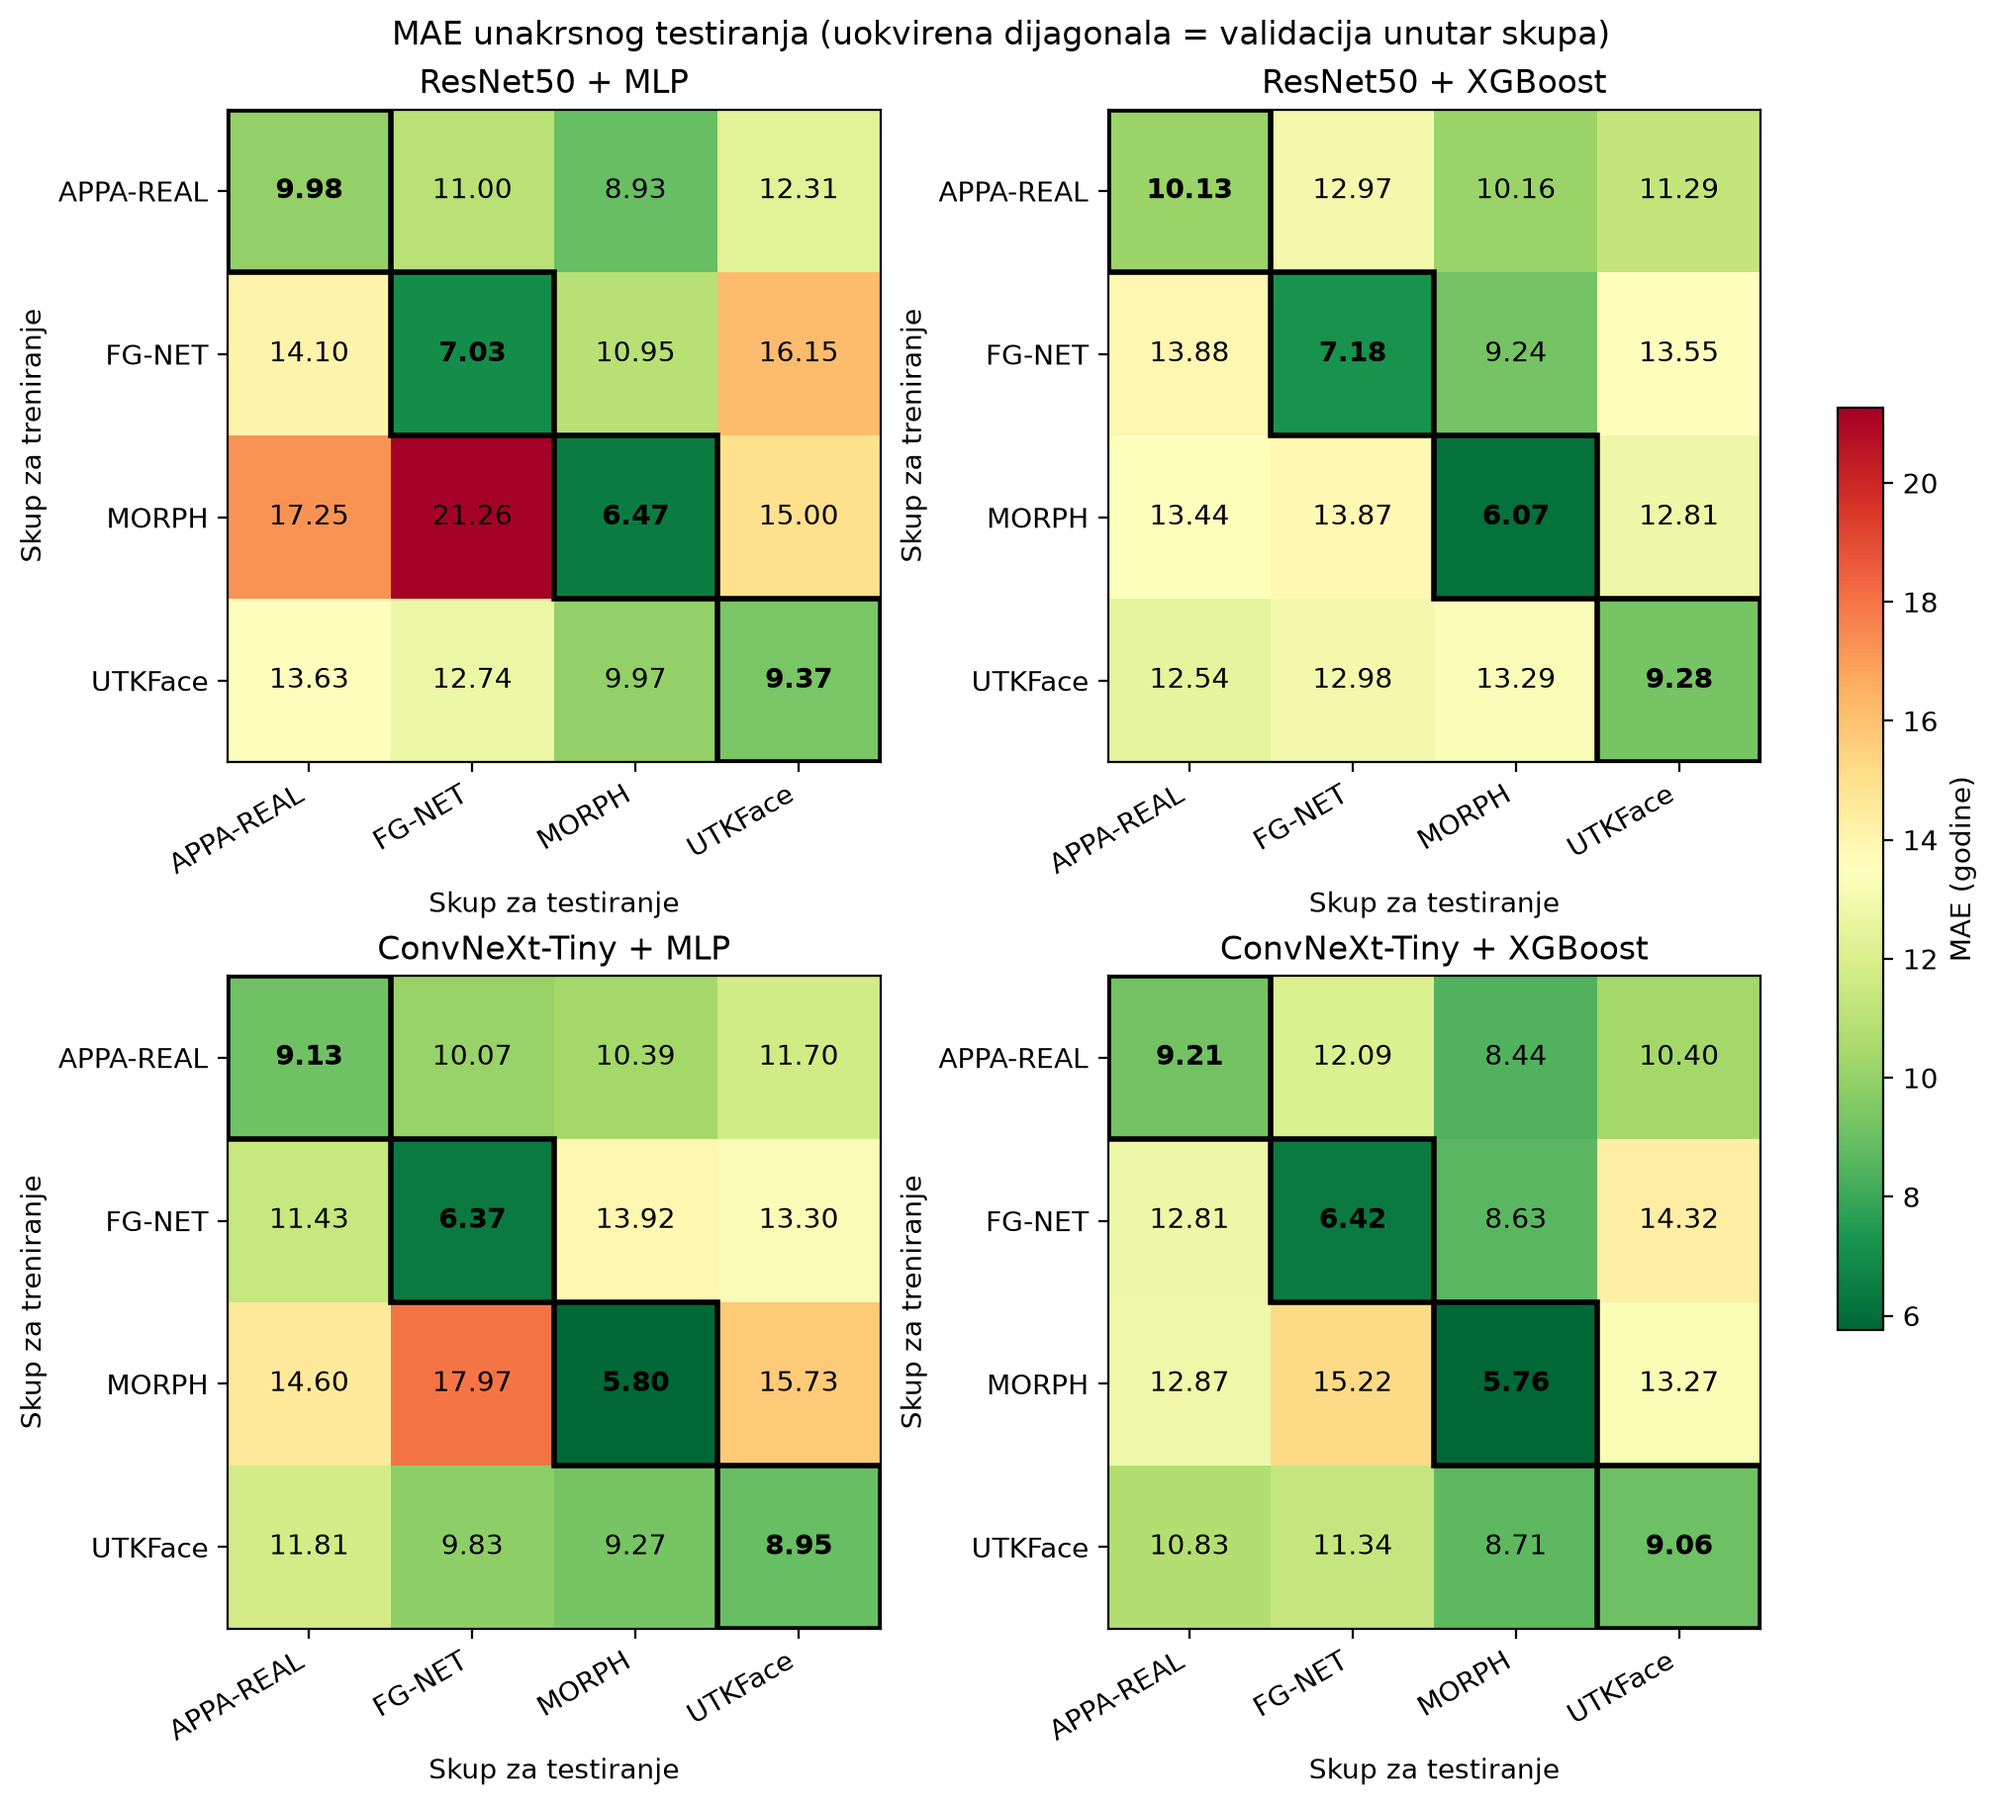
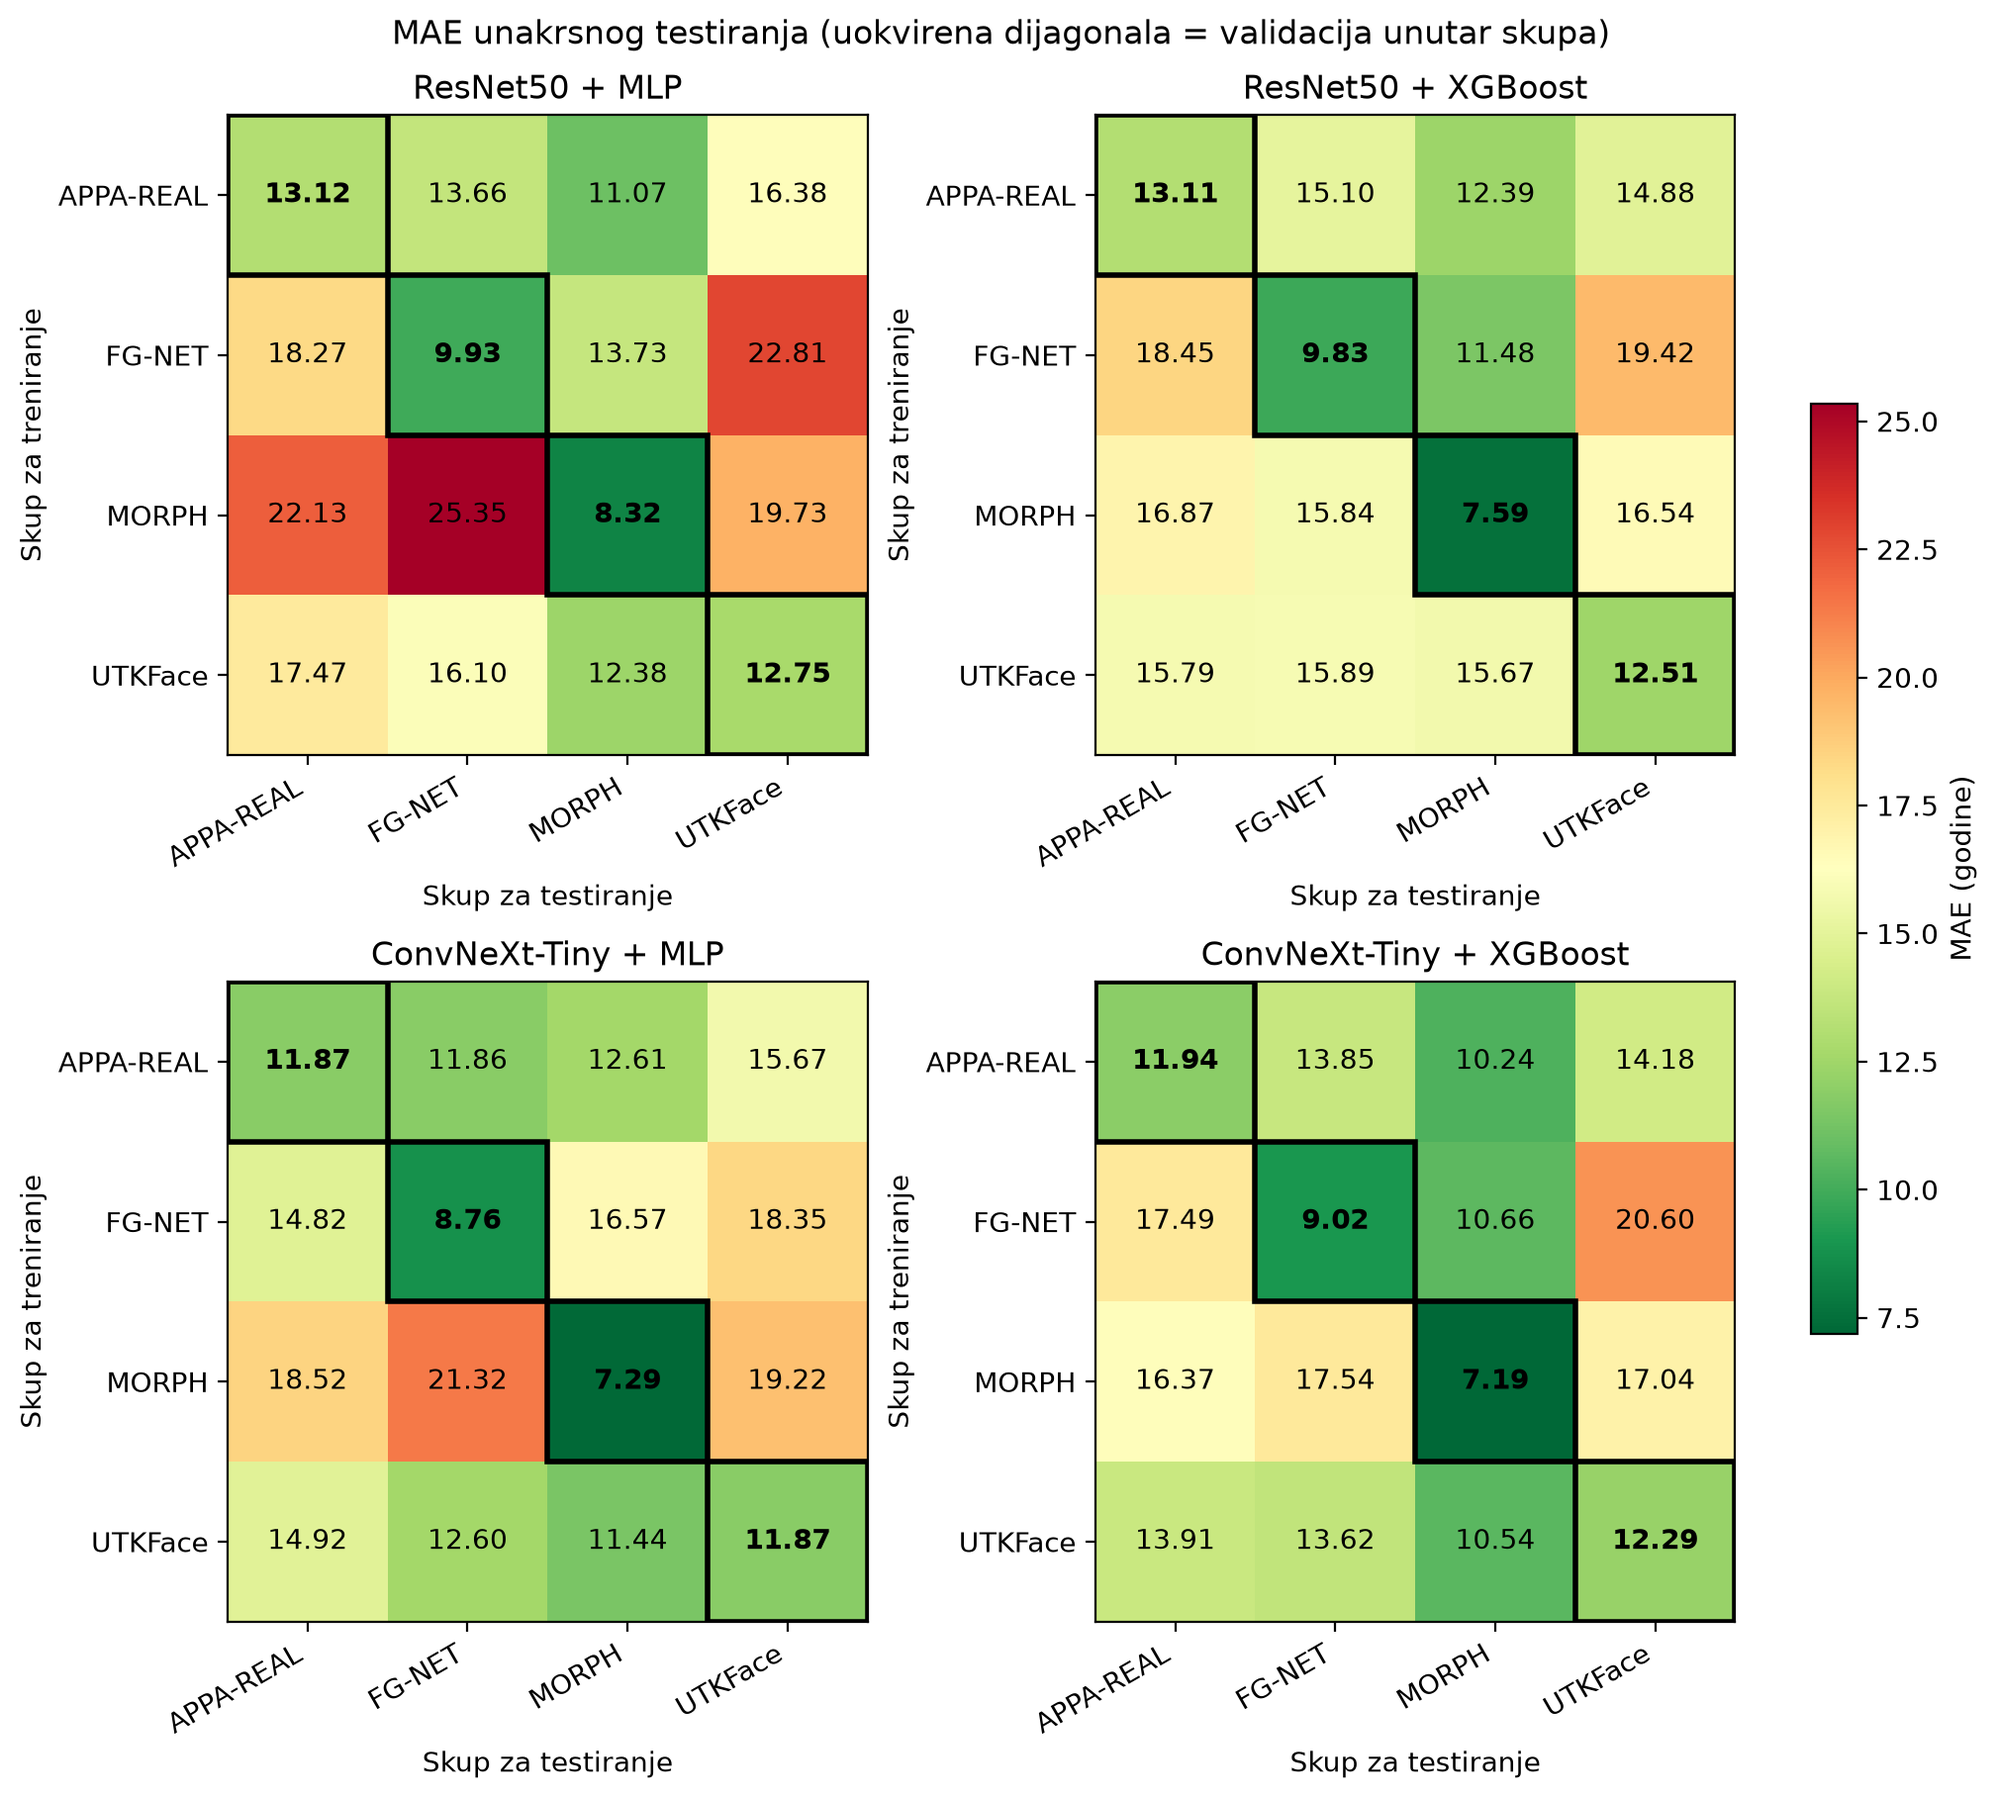
RMSE kao dodatna metrika u evaluaciji, treniranju i graficima

diff --git a/src/evaluate.py b/src/evaluate.py
@@ -6,11 +6,13 @@ import joblib
 import numpy as np
 import pandas as pd
 from sklearn.metrics import mean_absolute_error
+from sklearn.model_selection import GroupKFold, cross_validate
 
-from src.train import (CNNS, DATASETS, HPO_DIR, ML_MODELS, MODELS_DIR,
-                       RESULTS_DIR, load_features)
+from src.train import (CNNS, DATASETS, HPO_DIR, ML_MODELS, MODELS_DIR, RESULTS_DIR,
+                       build_model, load_features, subsample_by_person)
 
 CROSS_RESULTS_PATH = RESULTS_DIR / "cross_dataset.csv"
+HPO_MAX_SAMPLES = 5000  # isto kao podrazumevani --max-hpo-samples u train.py
 
 
 def cumulative_score(y_true, y_pred, threshold: int = 5) -> float:
@@ -18,26 +20,56 @@ def cumulative_score(y_true, y_pred, threshold: int = 5) -> float:
     return float(np.mean(np.abs(y_true - y_pred) <= threshold) * 100)
 
 
+def rmse_score(y_true, y_pred) -> float:
+    """Koren srednje kvadratne greške, u godinama."""
+    return float(np.sqrt(np.mean((y_true - y_pred) ** 2)))
+
+
+def cv_rmse(ml, train_name, features, info, info_path) -> float:
+    """RMSE unutar skupa: ista unakrsna validacija kao u train.py, sa najboljim parametrima.
+    Računa se jednom i upisuje u .json, pa se sledeći put samo čita."""
+    if "cv_rmse" in info:
+        return info["cv_rmse"]
+
+    X, y, groups = features[train_name]
+    X, y, groups = subsample_by_person(X, y, groups, HPO_MAX_SAMPLES)
+    scores = cross_validate(
+        build_model(ml, info["best_params"]), X, y, groups=groups,
+        cv=GroupKFold(n_splits=info["n_folds"]),
+        scoring=("neg_mean_absolute_error", "neg_root_mean_squared_error"),
+    )
+    mae = -scores["test_neg_mean_absolute_error"].mean()
+    if abs(mae - info["cv_mae"]) > 0.01:
+        print(f"  upozorenje: ponovljen CV MAE {mae:.3f} != sačuvan {info['cv_mae']}")
+
+    info["cv_rmse"] = round(float(-scores["test_neg_root_mean_squared_error"].mean()), 3)
+    info_path.write_text(json.dumps(info, indent=2), encoding="utf-8")
+    return info["cv_rmse"]
+
+
 def main():
     rows = []
     for cnn in CNNS:
-        # Karakteristike svih skupova za ovaj CNN učitavamo jednom
         features = {name: load_features(cnn, name) for name in DATASETS}
 
         for ml in ML_MODELS:
             for train_name in DATASETS:
                 tag = f"{cnn}_{ml}_{train_name}"
                 model = joblib.load(MODELS_DIR / f"{tag}.joblib")
-                info = json.loads((HPO_DIR / f"{tag}.json").read_text(encoding="utf-8"))
+                info_path = HPO_DIR / f"{tag}.json"
+                info = json.loads(info_path.read_text(encoding="utf-8"))
                 train_mean_age = features[train_name][1].mean()
 
                 for test_name in DATASETS:
                     row = {"cnn": cnn, "ml": ml, "train": train_name, "test": test_name}
 
                     if test_name == train_name:
-                        # Isti skup: uzimamo rezultat unakrsne validacije iz treniranja
-                        row.update({"type": "cv", "mae": info["cv_mae"],
-                                    "cs5": np.nan, "baseline_mae": np.nan, "improvement": np.nan})
+                        row.update({
+                            "type": "cv",
+                            "mae": info["cv_mae"],
+                            "rmse": cv_rmse(ml, train_name, features, info, info_path),
+                            "cs5": np.nan, "baseline_mae": np.nan, "improvement": np.nan,
+                        })
                     else:
                         X, y, _ = features[test_name]
                         pred = model.predict(X)
@@ -47,6 +79,7 @@ def main():
                         row.update({
                             "type": "cross",
                             "mae": round(mae, 3),
+                            "rmse": round(rmse_score(y, pred), 3),
                             "cs5": round(cumulative_score(y, pred), 2),
                             "baseline_mae": round(baseline_mae, 3),
                             "improvement": round((1 - mae / baseline_mae) * 100, 2),
@@ -57,27 +90,19 @@ def main():
     df = pd.DataFrame(rows)
     df.to_csv(CROSS_RESULTS_PATH, index=False)
 
-    # Matrice MAE: red = skup za treniranje, kolona = skup za testiranje
-    for cnn in CNNS:
-        for ml in ML_MODELS:
-            subset = df[(df["cnn"] == cnn) & (df["ml"] == ml)]
-            matrix = subset.pivot(index="train", columns="test", values="mae")
-            print(f"\n=== {cnn} + {ml}: MAE (dijagonala = CV unutar skupa) ===")
-            print(matrix.round(2).to_string())
+    # Matrice MAE i RMSE: red = skup za treniranje, kolona = skup za testiranje
+    for metric in ["mae", "rmse"]:
+        for cnn in CNNS:
+            for ml in ML_MODELS:
+                subset = df[(df["cnn"] == cnn) & (df["ml"] == ml)]
+                matrix = subset.pivot(index="train", columns="test", values=metric)
+                print(f"\n=== {cnn} + {ml}: {metric.upper()} (dijagonala = CV unutar skupa) ===")
+                print(matrix.round(2).to_string())
 
-    # Prosek unakrsnih rezultata po kombinaciji CNN + ML
-       # Matrice relativnog poboljšanja (samo unakrsni parovi)
     cross = df[df["type"] == "cross"]
-    for cnn in CNNS:
-        for ml in ML_MODELS:
-            subset = cross[(cross["cnn"] == cnn) & (cross["ml"] == ml)]
-            matrix = subset.pivot(index="train", columns="test", values="improvement")
-            print(f"\n=== {cnn} + {ml}: poboljšanje u odnosu na osnovnu liniju (%) ===")
-            print(matrix.round(1).to_string())
-
-    # Prosek po kombinaciji CNN + ML
     summary = cross.groupby(["cnn", "ml"]).agg(
         mae=("mae", "mean"),
+        rmse=("rmse", "mean"),
         cs5=("cs5", "mean"),
         improvement=("improvement", "mean"),
         gore_od_baseline=("improvement", lambda s: int((s < 0).sum())),
@@ -85,6 +110,7 @@ def main():
     print("\n=== Prosek unakrsnog testiranja ===")
     print(summary.to_string())
     print(f"\nSačuvano: {CROSS_RESULTS_PATH}")
+
 
 if __name__ == "__main__":
     main()

diff --git a/src/train.py b/src/train.py
@@ -10,7 +10,7 @@ import numpy as np
 import optuna
 import pandas as pd
 from sklearn.exceptions import ConvergenceWarning
-from sklearn.model_selection import GroupKFold, cross_val_score
+from sklearn.model_selection import GroupKFold, cross_validate
 from sklearn.neural_network import MLPRegressor
 from sklearn.pipeline import make_pipeline
 from sklearn.preprocessing import StandardScaler
@@ -111,9 +111,12 @@ def optimize(ml: str, X, y, groups, n_trials: int, n_folds: int):
 
     def objective(trial):
         model = build_model(ml, suggest_params(trial, ml))
-        scores = cross_val_score(model, X, y, groups=groups, cv=cv,
-                                 scoring="neg_mean_absolute_error")
-        return -scores.mean()  # MAE, manje je bolje
+        scores = cross_validate(model, X, y, groups=groups, cv=cv,
+                                scoring=("neg_mean_absolute_error",
+                                         "neg_root_mean_squared_error"))
+        # RMSE se samo pamti; optimizuje se MAE
+        trial.set_user_attr("rmse", float(-scores["test_neg_root_mean_squared_error"].mean()))
+        return -scores["test_neg_mean_absolute_error"].mean()
 
     study = optuna.create_study(direction="minimize",
                                 sampler=optuna.samplers.TPESampler(seed=SEED))
@@ -161,6 +164,7 @@ def main():
                     "cnn": cnn, "ml": ml, "train_dataset": train_name,
                     "best_params": study.best_params,
                     "cv_mae": round(study.best_value, 3),
+                    "cv_rmse": round(study.best_trial.user_attrs["rmse"], 3),
                     "n_trials": args.trials, "n_folds": args.folds,
                     "hpo_samples": int(len(y_hpo)), "train_samples": int(len(y)),
                     "seconds": round(elapsed, 1),

diff --git a/src/plots.py b/src/plots.py
@@ -65,15 +65,15 @@ def plot_age_distributions() -> None:
     save(fig, "age_distributions.png")
 
 
-def plot_heatmaps(df: pd.DataFrame) -> None:
+def plot_heatmaps(df: pd.DataFrame, metric: str = "mae") -> None:
     fig, axes = plt.subplots(2, 2, figsize=(10, 9), layout="constrained")
-    vmin, vmax = df["mae"].min(), df["mae"].max()  # ista skala boja za sve 4 mape
+    vmin, vmax = df[metric].min(), df[metric].max()
     labels = [NAMES[d] for d in DATASETS]
     combos = [(cnn, ml) for cnn in CNNS for ml in ML_MODELS]
 
     for ax, (cnn, ml) in zip(axes.flat, combos):
         subset = df[(df["cnn"] == cnn) & (df["ml"] == ml)]
-        matrix = subset.pivot(index="train", columns="test", values="mae").loc[DATASETS, DATASETS]
+        matrix = subset.pivot(index="train", columns="test", values=metric).loc[DATASETS, DATASETS]
         image = ax.imshow(matrix.values, cmap="RdYlGn_r", vmin=vmin, vmax=vmax)
 
         for i in range(len(DATASETS)):
@@ -150,7 +150,8 @@ def plot_mae_by_age(cnn: str = "convnext", ml: str = "xgboost") -> None:
 def main():
     df = pd.read_csv(CROSS_RESULTS_PATH)
     plot_age_distributions()
-    plot_heatmaps(df)
+    plot_heatmaps(df, "mae")
+    plot_heatmaps(df, "rmse")
     print("Predviđene naspram stvarnih godina:")
     plot_pred_vs_true()
     plot_mae_by_age()
